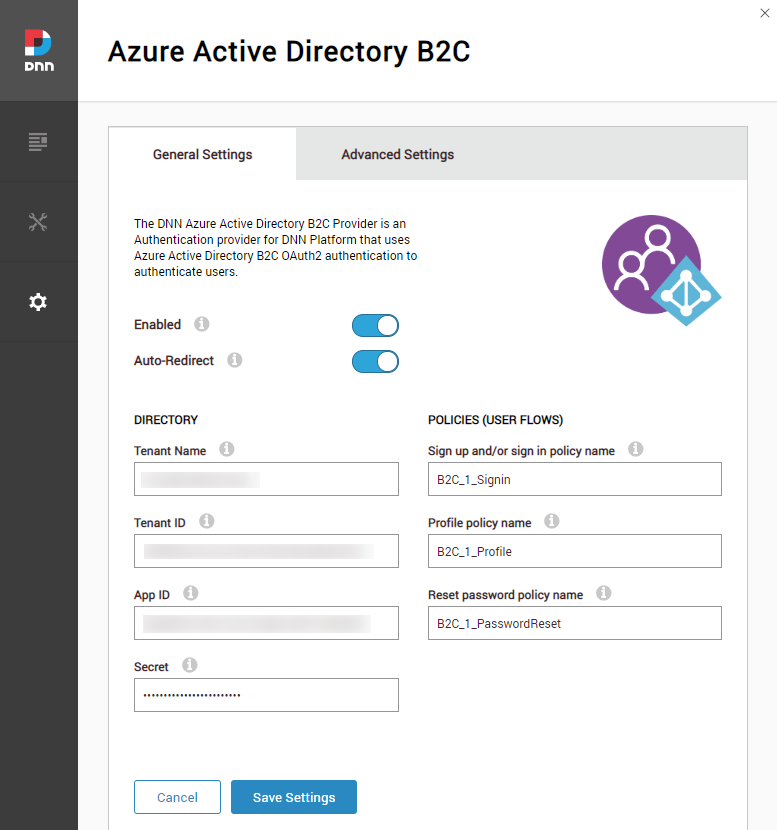
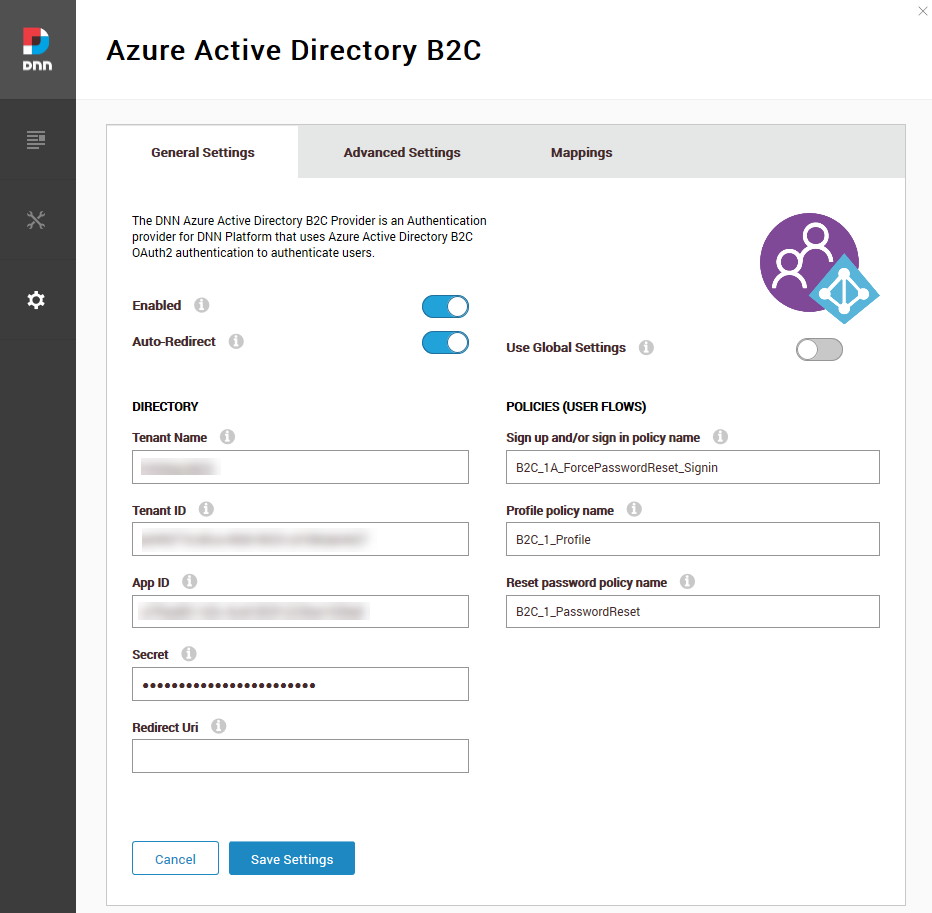
Updated the documentation for 1.2 release

Changed region(s): [[0.0, 0.0, 0.9884, 1.0]]

diff --git a/README.md b/README.md
@@ -2,15 +2,23 @@
 [![Latest release](docs/images/BadgeRelease.svg)](https://github.com/intelequia/dnn.azureadb2cprovider/releases) [![Build Status](https://intelequia.visualstudio.com/DNN%20Azure%20AD%20B2C/_apis/build/status/DNN%20Azure%20AD%20B2C-%20CI?branchName=master)](https://intelequia.visualstudio.com/DNN%20Azure%20AD%20B2C/_build/latest?definitionId=27&branchName=master)
 
 ## Contents
-- [Overview](#overview)
-- [Requirements](#requirements)
-- [Features](#features)
-- [Installation and configuration guide](#installation-and-configuration-guide)
-  - [Azure Active Directory setup](#AADB2C-setup)
-  - [How to setup the Azure Active Directory application to support role and profile synchronization](#AAD-setup)
-  - [DNN Provider installation and configuration](#provider-configuration)
+- [DNN Azure Active Directory B2C provider](#dnn-azure-active-directory-b2c-provider)
+  - [Contents](#contents)
+  - [Requirements](#requirements)
+  - [Overview](#overview)
+  - [Features](#features)
+  - [Installation and configuration guide](#installation-and-configuration-guide)
+    - [Step 1: Azure Active Directory B2C setup](#step-1-azure-active-directory-b2c-setup)
+    - [Step 2: How to setup the Azure Active Directory application to support role and profile synchronization](#step-2-how-to-setup-the-azure-active-directory-application-to-support-role-and-profile-synchronization)
+    - [Step 3: DNN provider installation and configuration](#step-3-dnn-provider-installation-and-configuration)
 - [Samples](#samples)
-- [Building the solution](#building)
+- [Building the solution](#building-the-solution)
+    - [Requirements](#requirements-1)
+    - [Configure local npm to use the DNN public repository](#configure-local-npm-to-use-the-dnn-public-repository)
+    - [Install package dependencies](#install-package-dependencies)
+    - [Build the module](#build-the-module)
+  - [Additional information](#additional-information)
+  - [Questions &amp; Issues](#questions-amp-issues)
 
 <a name="requirements"></a>
 ## Requirements
@@ -28,7 +36,7 @@ This provider can also retrieve all personal information stored in the user attr
 
 <a name="features"></a>
 ## Features
-* Provides DNN Platform - Azure AD B2C integration by portal, so each portal on a DNN installation can setup their own Auth settings
+* Provides DNN Platform - Azure AD B2C integration by portal, so each portal on a DNN installation can setup their own Auth settings, or by the full DNN install, so all the portals share the same B2C tenant
 * Allows auto-redirection, so users are automatically redirected to the Azure AD B2C login without seeing the DNN login page
 * Supports the following policies (user flows):
   * Sign up/Sign in: users can register on Azure AD B2C and then login, or just login
@@ -38,6 +46,9 @@ This provider can also retrieve all personal information stored in the user attr
 * Supports User profile picture synchronization as part of the profile synchronization
 * Supports JWT authorization. If enabled, developers can get a JWT auth token directly from Azure B2C login using the "Resource Owner" policy, and then use that token to call any DNN WebAPI Controller with the Auth scheme "JWT".
 * Supports for 3rd party WebAPI integration through API Resource and scopes implementation
+* New support for custom claim mappings: user mappings, user profile mappings and role mappings.
+* New user management module allows to manage Azure AD B2C users directly from the DNN interface, including the force password reset attribute (check "Samples/CustomPolicies/SignInWithForcePasswordReset").
+* Now the user and role prefix can be disabled, so user and role names are more friendly (works really well when using "emails" claim as "Id" on the User mappings).
 
 <a name="installation-and-configuration-guide"></a>
 ## Installation and configuration guide
@@ -93,18 +104,17 @@ The settings page is divided into general and advanced settings.
 To start, you can simply fill up the general settings:
 * **Enabled**: Use this switch to enable/disable the Azure AD B2C provider
 * **Auto-Redirect**: This option allows you to automatically redirect your login page to the Azure AD B2C login page. If for some reason you need to login with the legacy DNN auth (i.e. using a host user), you can pass the "legacy=1" parameter in your login URL (i.e. https://mysite.com/login?legacy=1)
+* **Use Global Settings**: If enabled, all the settings are applied to all portals on this deployment. Only Super Users can edit this setting
 * **Directory Tenant Name**: This is the name of your tenant. It's the name that's in your domain name, but without the ".onmicrosoft.com" part. For instance, if your domain name is _test123.onmicrosoft.com_, your tenant name is _test123_
 * **Directory Tenant ID**: You can get this parameter from the **Properties** section of your Azure Active Directory (it's the value of the field **Directory ID**)
 * **App ID**: This is the **Application ID** of the application you created in [step 1](#AADB2C-setup) of the previous section of this guide (the B2C application)
 * **Secret**: This is the **Key** that you generated when you created the application in [step 1](#AADB2C-setup) of the previous section
+* **Redirect Uri**: If specified, the redirect uri after a successful login. By default (blank), the user will be redirected to the page originating the login redirection. This is specially useful on multiportal scenario (different DNN portals sharing the same B2C tenant), by specifying the URL https://mysite.com/api/DotNetNuke.Authentication.Azure.B2C.Services/Authorization/RedirectToPortal. This endpoints automatically manages the redirection after a successfull login, so you only need to specify this redirection URL on the B2C application and the user ends in the right portal after the login.
 * Policies (user flows):
   * **Sign up and/or sign in**: The name of your Sign-up or Sign-in policy that you created before (depending on if you want to support user registration or not)
   * **Profile**: The name of your profile policy that you created before
   * **Reset the password**: The name of the policy that you created before to reset the password
 
-**IMPORTANT** if you are using the vanilla DNN Platform installation with the default settings, after a user successfully logins on B2C will the this message: "An email with your details has been sent to the Site Administrator for verification. You will be notified by email when your registration has been approved. In the meantime you can continue to browse this site.". 
-With some configurations, this message is not even shown, but is the same situation. You can change this behavior by changing the site registration settings of your DNN website through *Site Settings > Security > Member Accounts > Registration Settings > User Registration* and set the setting to "Public".
-Also note that changing the setting, does not "verify" the users that are waiting for verification, so you probably need to go and authorize that user through the DNN Users maintenance (remember to select the "Unauthorized" users on the users maintenance window to see who is pending for verification).
 
 ![AAD B2C settings](docs/images/AzureAdB2C_03.png  "AAD B2C settings")
 
@@ -116,6 +126,9 @@ For advanced scenarios, check the advanced settings:
   * **Profile Sync**: enables profile sync after user sigin, including the profile picture (this can affect login performance)
   * **Application Id**: the application ID of the application created in [step 2](#AAD-setup) of the previous section of this guide (the Azure AD application, not the B2C)
   * **Application Key**: the secret of the application mentioned above
+* Name prefixes:
+  * **Prefix user names**: Enables the addition of the prefix "AzureB2C-" to all user names coming from B2C.
+  * **Prefix group names**: Enables the addition of the prefix "AzureB2C-" to all group names coming from B2C.
 * JWT Authorization:
   * **Enable JWT authorization**: enables the possibility of using JWT tokens created by directly using the Azure AD B2C API, and then call a DNN WebAPI controller decorated with the attribute `[DnnAuthorize(AuthTypes = "JWT")]`. An example of this controller, can be found in `DotNetNuke.Authentication.Azure.B2C\Services\HelloController.cs`. See "Hello" sample for more information.
   * **Audiences**: audiences, separated by commas, to validate on a JWT token when JWT authorization is used. If the field is empty, by default the B2C application Id is used as default audience.
@@ -123,14 +136,24 @@ For advanced scenarios, check the advanced settings:
   * **App ID Uri**: The App ID Uri of the external WebAPI, obtained from the Azure portal (i.e. https://mytenant.onmicrosoft.com/myapi/)
   * **Scopes**: The scopes separated by spaces, that will be include in the issued tokens, to be validated by the external WebAPI (i.e. "read write")
 
-![AAD B2C settings](docs/images/AzureAdB2C_04.png  "AAD B2C settings")
+![AAD B2C advanced settings](docs/images/AzureAdB2C_04.png  "AAD B2C advanced settings")
 
-<a name="features"></a>
+3. MAPPINGS
+
+In this section you can customize the claim mappings between Azure AD B2C claims and DNN properties and attributes:
+* **User mappings**: maps B2C claims to DNN user properties. These properties are fixed and are mandatory, with the exception of the "portalId" claim that can be left without mapping. By default, the "Id" property (the username) is mapped with the "sub" claim (a guid). If you are using emails as usernames, you can map the "emails" claim and disable the "Prefix user names" option in the advanced settings.
+* **User profile mappings**: maps B2C claims to DNN user profile properties. You can add or remove mappings as desired.
+* **Role mappings**: maps B2C roles with DNN roles by name. By default, this list is empty, so all B2C roles are synced with DNN. If there are one or more mappings, only the B2C roles on the list will be synced.
+
+![AAD B2C mappings](docs/images/AzureAdB2C_05.png  "AAD B2C mappings")
+
+<a name="samples"></a>
 # Samples
 Under the "samples" directory, you will find some samples that will show some integration scenarios, like integration mobile apps with DNN by using Azure AD B2C JWT auth tokens:
 * [samples/hello](samples/Hello): a simple console App, that allows you to login with a username and password into Azure AD B2C, and then call a DNN WebAPI controller
 * [samples/active-directory-b2c-dotnet-webapp-and-webapi](samples/active-directory-b2c-dotnet-webapp-and-webapi): slight modified version of the sample available on the Microsoft Azure B2C repo samples, with a webapp and a webapi consuming Azure AD B2C. Modification to setup CORS, to allow the DNN module example work with the webapi.
 * [samples/SPA-WebAPI-Client](samples/SPA-WebAPI-Client): a To-do list DNN module example, that calls an external WebAPI by using B2C JWT tokens. 
+* [samples/CustomPolicies]: custom policies samples to expand the built-in functionalities of Azure AD B2C (i.e. force password reset policy).
 
 For more samples, check:
 * [Microsoft Azure AD B2C samples](https://docs.microsoft.com/en-us/azure/active-directory-b2c/code-samples): check different samples from Microsoft, including Mobile and Desktop apps, WebAPI, Web apps, and single page applications.
@@ -164,6 +187,9 @@ Additional information regarding this sample can be found in Microsoft documenta
 * [How to build a .NET web app using Azure AD B2C](https://docs.microsoft.com/azure/active-directory-b2c/active-directory-b2c-devquickstarts-web-dotnet-susi)
 * [How to build a .NET web API secured using Azure AD B2C](https://docs.microsoft.com/azure/active-directory-b2c/active-directory-b2c-devquickstarts-api-dotnet)
 * [How to call a .NET web api using a .NET web app](https://docs.microsoft.com/azure/active-directory-b2c/active-directory-b2c-devquickstarts-web-api-dotnet)
+* [Get started with custom policies in Azure Active Directory B2C](https://docs.microsoft.com/en-us/azure/active-directory-b2c/active-directory-b2c-get-started-custom?tabs=applications)
+* [Solutions and Training for Azure Active Directory B2C](https://docs.microsoft.com/en-us/azure/active-directory-b2c/solution-articles)
+* [Tips and tricks for working with custom policies in Azure AD B2C by @rbrayb](https://medium.com/the-new-control-plane/tips-and-tricks-for-working-with-custom-policies-in-azure-ad-b2c-eb63b508a075)
 
 ## Questions & Issues
 
